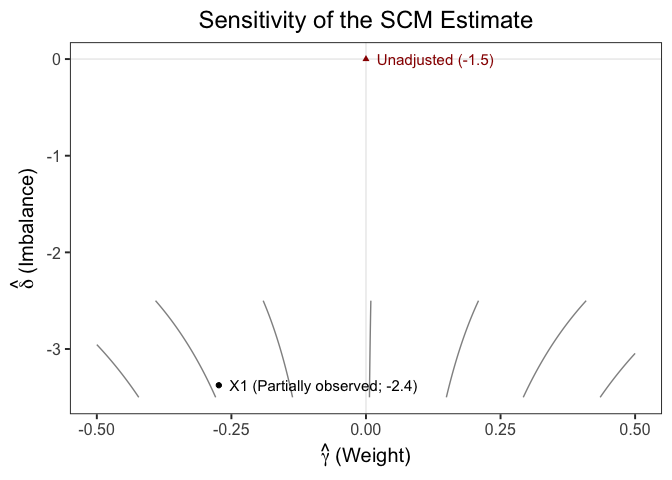
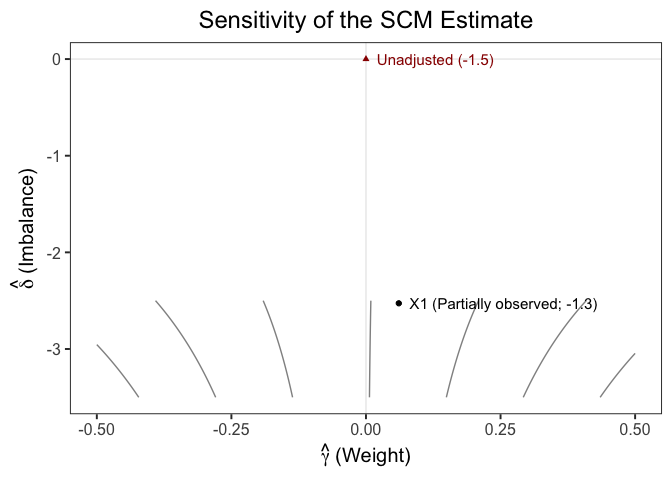
change example (partial. obs.)

Changed region(s): [[0.5938, 0.625, 0.9062, 0.6562], [0.3125, 0.7812, 0.625, 0.8125]]

diff --git a/README.md b/README.md
@@ -127,9 +127,9 @@ plot_sensitivity_r2(tau_complete = tau_complete, df = df, tau_se = tau_se,
 ## Example 2: Sensitivity Analysis with Partially Observed Data
 
 ``` r
-## Suppose X1 is partially observed (only observed for odd-numbered rows)
+## Suppose X1 is partially observed (only observed for second half)
 synth_pre_missing <- synth_pre |>
-  mutate(X1 = ifelse(row_number() %% 2 == 0, NA, X1)) 
+  mutate(X1 = ifelse(row_number() < n()/2, NA, X1)) 
 ## Estimate parameters with partially observed data 
 df_pre_partial <- synth_pre_missing |>
   filter(!is.na(X1))
@@ -149,9 +149,9 @@ knitr::kable(res_table, digits = 3)
 
 | Parameter | Estimate |
 |:----------|---------:|
-| gamma     |   -0.273 |
-| delta     |   -3.375 |
-| bias      |    0.923 |
+| gamma     |    0.061 |
+| delta     |   -2.527 |
+| bias      |   -0.154 |
 
 ``` r
 
